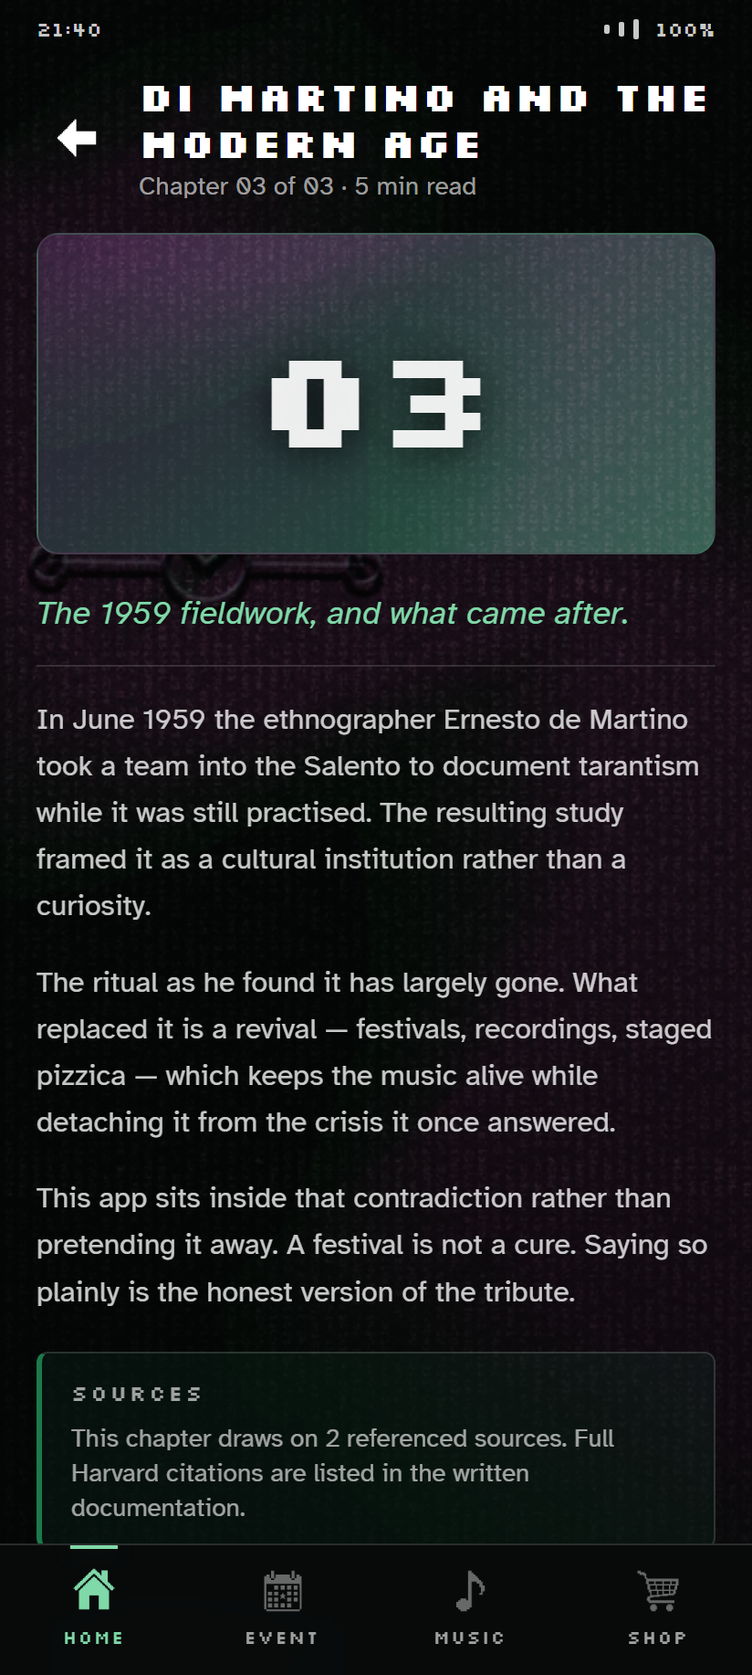
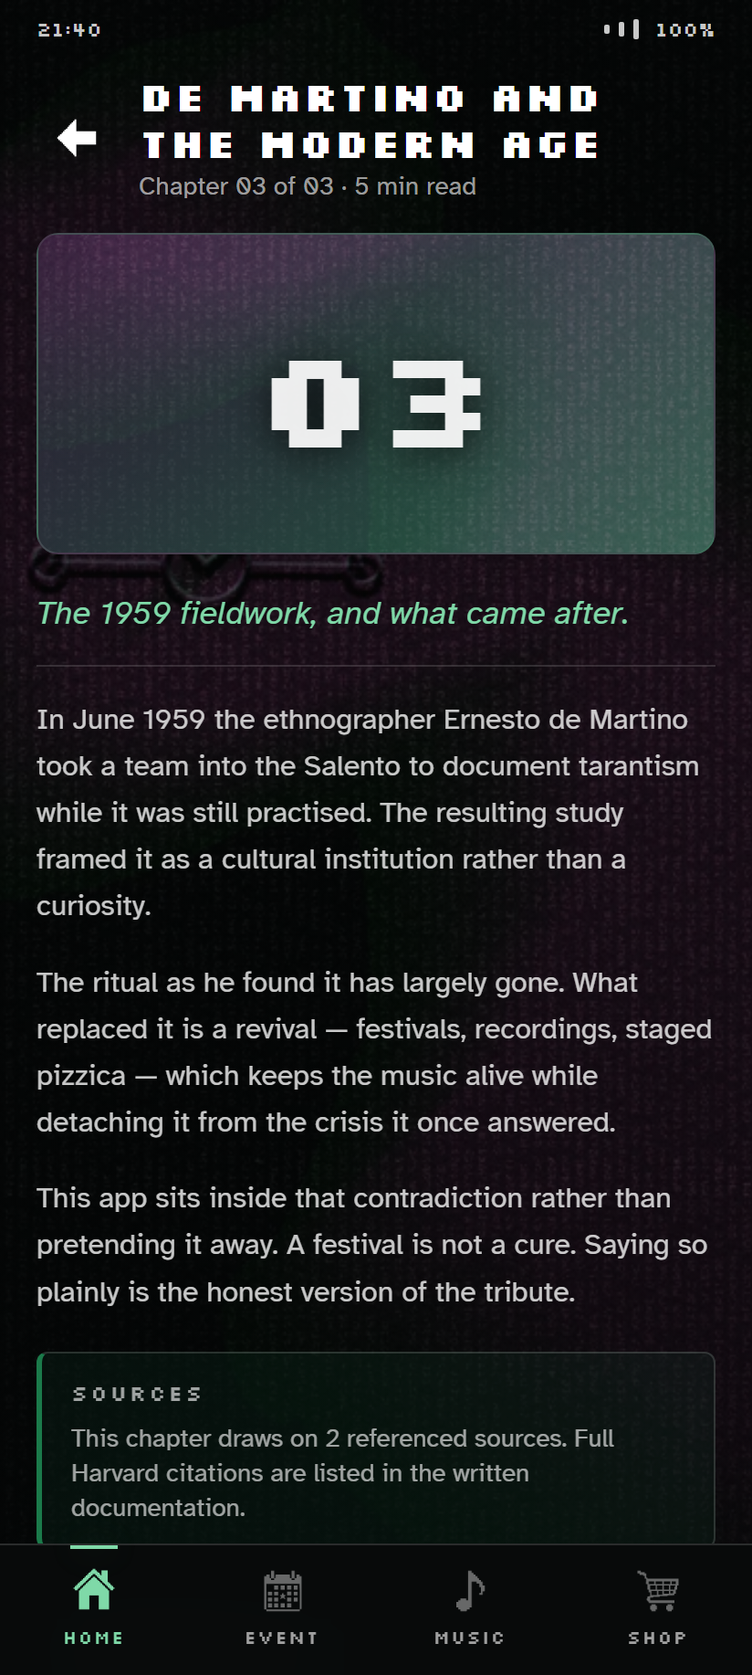
Audit every story-chapter claim; fix the De Martino misspelling
Adds Docs/08-Story-Claims-Audit.md: all 14 assertions across the three
story screens, each classified as verified, standard-but-unread, or
interpretive, with the source that has to carry it and the eleven
specific things to read for. Written to be read before the books.

Chapter 3 was titled "Di Martino and the Modern Age". The ethnographer
is Ernesto de Martino. The wireframe had it wrong and it had spread to
the app, the README, the screen spec and capture.py. Display title
corrected; the dimartino route id stays so links and fixtures hold.

Bibliographic details now verified for de Martino (Zinn translation,
Crapanzano foreword, Il Saggiatore 1961 original), Luedtke (Berghahn,
Epistemologies of Healing vol. 4) and Dodds (Sather Classical Lectures
vol. 25, chapter 3 is the relevant one). Burkert still unverified.

Flags the "Menades" title as a decision to make: neither the English
maenads nor the Italian menadi.

Click-through passes. Screens regenerated.

Changed region(s): [[0.182, 0.0311, 0.6371, 0.0932], [0.6371, 0.0311, 0.7888, 0.0932], [0.8192, 0.0311, 0.9405, 0.0932]]

diff --git a/app/js/data.js b/app/js/data.js
@@ -76,7 +76,9 @@ const Data = {
     {
       id: 'dimartino',
       n: '03',
-      title: 'Di Martino and the Modern Age',
+      /* "De Martino", not "Di Martino" — the wireframe had it wrong. The route id
+         stays `dimartino` so links and test fixtures keep working. */
+      title: 'De Martino and the Modern Age',
       standfirst: 'The 1959 fieldwork, and what came after.',
       readTime: '5 min',
       cite: ['demartino-2005', 'ludtke-2009'],

diff --git a/tools/capture.py b/tools/capture.py
@@ -32,7 +32,7 @@ SCREENS = [
     ("02-about",           "about",              "About the Festival"),
     ("03-story-dionysian", "story/dionysian",    "The Dionysian Cult"),
     ("04-story-menades",   "story/menades",      "Menades and Tarantate"),
-    ("05-story-dimartino", "story/dimartino",    "Di Martino and the Modern Age"),
+    ("05-story-dimartino", "story/dimartino",    "De Martino and the Modern Age"),
     ("06-event-hub",       "event",              "Event hub"),
     ("07-map",             "map",                "Map — Flemington"),
     ("08-schedule",        "schedule",           "Schedule"),

diff --git a/Docs/08-Story-Claims-Audit.md b/Docs/08-Story-Claims-Audit.md
@@ -1,0 +1,139 @@
+# Story Chapters — Claim-by-Claim Audit
+
+**Prepared 13 August 2026, for the Friday 14 August rewrite.**
+
+The three story screens carry more factual weight than the rest of the app combined. This document takes every assertion in them and says what kind of claim it is, what has to support it, and what you need to look for when you read.
+
+> **Why this exists.** On 13 August a fact-check of four unsourced claims elsewhere in the app found three errors, one of which — Route 57 running low-floor trams — was an *accessibility* claim that was the exact reverse of the truth. It had survived because it was plausible, specific and never checked. The story chapters are the same category of risk at roughly ten times the volume. Read them with that in mind.
+
+**Read this before the books, not after.** It turns three hundred pages of reading into a search for eleven specific things.
+
+---
+
+## How claims are classified
+
+| Mark | Meaning | What you must do |
+|---|---|---|
+| ✔ | **Verified** — checked against a source, and the source is cited | Nothing. Use it. |
+| ⚠ | **Standard but unread** — almost certainly right, but neither of us has read the page it sits on | Find it in the book. Note the page. If you can't find it, cut the sentence. |
+| ◆ | **Interpretive** — your argument, not a fact | No citation needed. But it must be *your* sentence, and it is where the marks are. |
+| ✖ | **Wrong or unsupportable** | Already fixed, or listed below as needing a decision. |
+
+---
+
+## Fixed before you start
+
+| Was | Now | Why |
+|---|---|---|
+| Chapter 3 titled "**Di** Martino and the Modern Age" | "**De** Martino and the Modern Age" | The ethnographer is Ernesto **de Martino**. The wireframe had it wrong and it propagated into the app, the README and the screen spec. Misspelling the name of the person whose book you are citing is the single most visible referencing error available. |
+
+The route id stays `dimartino` so links and test fixtures keep working — only the display title changed.
+
+### One naming decision left to you
+
+Chapter 2 is titled **"Menades and Tarantate"**. *Menades* is neither the English (**maenads**) nor the Italian (**menadi**) — it is the Spanish and Latin plural. The pairing with the Italian *tarantate* suggests you wanted the Italian register, in which case it should be **"Menadi e Tarantate"** or **"Maenads and Tarantate"**.
+
+It is your title and there is a defensible argument for leaving it, but a classicist marking this will notice. **Decide it deliberately rather than by default**, and if you keep it, know why.
+
+---
+
+## Chapter 1 — The Dionysian Cult
+
+Cites: Dodds (1951), Burkert (1985)
+
+| # | The claim | Type | What has to carry it |
+|---|---|---|---|
+| 1.1 | "The rites of Dionysus gave the ancient Mediterranean a licensed space for ecstasy — a controlled loss of control, held inside ritual rather than outside it." | ⚠ | **Dodds, ch. 3 "The Blessings of Madness"** is the chapter you want. This is close to his actual argument, but "licensed space" is a paraphrase — find the passage and either quote it or restate it in your own terms with a page reference. |
+| 1.2 | "Participants danced to exhaustion." | ⚠ | Burkert on Dionysian cult practice. Standard, but check whether the sources describe dancing to exhaustion specifically or ecstatic dance generally — the difference matters if a marker knows the material. |
+| 1.3 | "The state they reached had a name and a place in the social order; it was not treated as an illness but as a visit." | ⚠ ◆ | The first half is Dodds. **"Not an illness but a visit" is your framing** — good framing, and it does real work later in chapter 3, but do not present it as something a source says. |
+| 1.4 | "What matters for this festival is the structure, not the spectacle: a community, a circle, music that does not stop, and a person at the centre who is permitted to come apart." | ◆ | Entirely yours. **This is the best sentence in the three chapters** and it is doing the most important job in them — see the continuity note below. Keep it. |
+
+### The continuity trap — read this twice
+
+The link between ancient Dionysian rite and Apulian tarantism is **debated, not settled**. De Martino himself is careful about it. A chapter that opens on Dionysus and closes on the Salento is *implying* a continuity claim whether or not it states one.
+
+Chapter 1 currently sidesteps this well: claim 1.4 argues that the **structure** recurs, not that the practice descended. That is the defensible position and it is already in your draft. **The risk is that you strengthen it while rewriting** — a phrase like "the same rite" or "which became" would turn a careful argument into an overreach.
+
+Hedging this properly is not caution, it is the "analyse and synthesise complex information" criterion in the rubric. Say the connection is structural and contested, and you demonstrate more than an author who asserts it.
+
+---
+
+## Chapter 2 — Menades and Tarantate
+
+Cites: de Martino (2005), Lüdtke (2009)
+
+| # | The claim | Type | What has to carry it |
+|---|---|---|---|
+| 2.1 | "In the Salento the rite reappears under another name." | ◆ ⚠ | "Reappears" is the continuity claim again, in softer clothing. Consider "recurs" or "a comparable structure appears" — same meaning, no descent implied. |
+| 2.2 | "A woman bitten — really or symbolically — by the *taranta* falls into a state that only music can lift." | ✔ | Well supported and central to de Martino. **The "really or symbolically" is the important part** and you have it right — the bite was often symbolic, which is precisely what makes it a cultural rather than medical phenomenon. |
+| 2.3 | "Musicians are called to the house. They play until the right rhythm is found, and then they keep playing, sometimes for days, while she dances." | ⚠ | All three elements — house, search for the right rhythm, multi-day duration — are documented. Find the passage. The "right rhythm" detail is specific enough that it needs a page. |
+| 2.4 | "The *tarantate* were almost always women, and almost always poor." | ⚠ | Strongly supported across the literature, but **quantify it if de Martino gives figures**. "Almost always" invites the question "how many?", and the study is systematic enough to answer it. A number here is worth a paragraph of assertion. |
+| 2.5 | "Reading the bite as purely medical misses what the ritual actually carried: grief, labour, confinement, and the absence of any other permitted outlet." | ◆ | Yours, and it is the interpretive core of the chapter. It aligns with de Martino's reading of tarantism as a response to cultural and psychological crisis — **say that it aligns, and cite him for the underlying idea**, but the four nouns are your synthesis. |
+
+**The strongest sentence you could add here** is one that names what the ritual gave a poor woman in rural Puglia that nothing else in her life did: a socially sanctioned occasion to be the centre of attention, to be unwell in public, and to have the community organise itself around her. That is the argument that makes chapter 3's position land.
+
+---
+
+## Chapter 3 — De Martino and the Modern Age
+
+Cites: de Martino (2005), Lüdtke (2009)
+
+| # | The claim | Type | What has to carry it |
+|---|---|---|---|
+| 3.1 | "In **June 1959** the ethnographer Ernesto de Martino took a team into the Salento to document tarantism while it was still practised." | ✔ | **Verified.** June 1959, Salentine peninsula. The team was interdisciplinary — a psychiatrist, a psychologist, an ethnomusicologist and a social anthropologist. **Add that detail**: it is concrete, checkable, and it supports your point that the study treated tarantism as a cultural institution rather than a medical curiosity. |
+| 3.2 | "The resulting study framed it as a cultural institution rather than a curiosity." | ✔ | Verified in substance — de Martino interpreted tarantism as a cultural and psychological crisis addressed through a ritual reintegrating the individual into society. **Use that formulation**; it is sharper than "cultural institution" and it is his. |
+| 3.3 | "The ritual as he found it has largely gone." | ⚠ | Lüdtke's territory. She is writing fifty years later on exactly this. Find her account of what remained and when. |
+| 3.4 | "What replaced it is a revival — festivals, recordings, staged pizzica — which keeps the music alive while detaching it from the crisis it once answered." | ⚠ ◆ | Lüdtke calls this **neo-tarantism** — use her term, it is more precise than "revival" and it shows you read her. The second half is your argument. |
+| 3.5 | "This app sits inside that contradiction rather than pretending it away. A festival is not a cure. Saying so plainly is the honest version of the tribute." | ◆ | **Yours, and the most important three sentences in the project.** Do not soften them in editing. See below. |
+
+### On claim 3.5
+
+This is where the *social and cultural demands* criterion is actually won, and it is worth more attention than any other paragraph you will write this week.
+
+The position is sound. What would make it stronger is **specificity about your own project**: a festival brand built on a healing ritual is extraction of a kind, however carefully handled. Naming the ways your app does and does not mitigate that — it leads with three history chapters rather than spider decoration; it invents its lineup rather than trading on real Salentine performers; but it still sells a tote bag with a spider on it — reads as judgement rather than defensiveness.
+
+Lüdtke is directly useful here. Her book is *about* the commercial and celebrity dimension of the pizzica revival, which is exactly the position your fictional festival occupies.
+
+---
+
+## Bibliographic details — verified 13 August 2026
+
+These are now checked against publisher and library records. **Verified details do not mean verified reading** — you still need the books in hand, and the checklist item is that nothing appears in the master list that you have not read.
+
+- **De Martino, E. (2005).** *The Land of Remorse: A Study of Southern Italian Tarantism*. Translated and annotated by D.L. Zinn, foreword by V. Crapanzano. London: Free Association Books. (First published as *La terra del rimorso: Contributo a una storia religiosa del Sud*. Milan: Il Saggiatore, 1961.) ✔
+  - *Translator and foreword confirmed. Zinn's annotations are written for exactly your situation — an English reader meeting de Martino for the first time. Read them.*
+- **Lüdtke, K. (2009).** *Dances with Spiders: Crisis, Celebrity and Celebration in Southern Italy*. New York and Oxford: Berghahn Books. Epistemologies of Healing series, vol. 4. ✔
+  - *Series and volume confirmed. She attended neo-tarantism events and learned to dance the pizzica — the fieldwork basis is worth a sentence if you use her.*
+- **Dodds, E.R. (1951).** *The Greeks and the Irrational*. Berkeley: University of California Press. Sather Classical Lectures, vol. 25. ✔
+  - *Series and volume confirmed. **Chapter 3, "The Blessings of Madness", is the one you need** — you do not have to read all 327 pages.*
+- **Burkert, W. (1985).** *Greek Religion*. Trans. J. Raffan. Cambridge, MA: Harvard University Press. ⚠
+  - *Not independently verified. Check the title page of the copy you use — this one has multiple printings and a UK Blackwell edition.*
+
+---
+
+## What to look for — the short version
+
+If you read nothing else, read for these eleven things:
+
+1. Dodds ch. 3 — the passage behind "licensed space for ecstasy" **(1.1)**
+2. Whether the sources say *danced to exhaustion* or just *ecstatic dance* **(1.2)**
+3. The symbolic-versus-real bite, in de Martino's words **(2.2)**
+4. Musicians at the house; the search for the right rhythm; how many days **(2.3)**
+5. **Numbers** on the gender and class of the *tarantate* **(2.4)**
+6. De Martino on tarantism as crisis and reintegration — his formulation, quotable **(2.5, 3.2)**
+7. The 1959 team's four disciplines, to name them **(3.1)**
+8. Lüdtke on what survived and when it went **(3.3)**
+9. Lüdtke's term **neo-tarantism**, and how she defines it **(3.4)**
+10. Lüdtke on commercialisation and celebrity — the material for 3.5
+11. Anything that **contradicts** a claim above. That is the most valuable thing you can come back with.
+
+---
+
+## Before the chapters are done
+
+- [ ] Every ⚠ has a page reference, or the sentence is gone
+- [ ] Every ◆ is written in your words, not tightened up from this document
+- [ ] The continuity claim is structural and hedged, never asserted as descent
+- [ ] `cite` keys in `app/js/data.js` list only works actually read — **the screen renders the count, so an unread key is a visible false claim**
+- [ ] The "Menades" title decision has been made deliberately
+- [ ] Claim 3.5 is at least as strong as it is now

diff --git a/Docs/06-References.md b/Docs/06-References.md
@@ -33,17 +33,23 @@ From the brief, p.10.
 
 The three story screens carry the most factual claims in the project. This is the section most exposed on referencing, and the prose in those screens is **still scaffold** — it must be rewritten against these sources once read.
 
-**⚠ Core**
+> 📋 **See [08-Story-Claims-Audit.md](08-Story-Claims-Audit.md) before reading any of these.** It takes every assertion in the three chapters and says which source has to carry it — including the eleven specific things to read *for*. It turns three hundred pages into a targeted search.
 
-- De Martino, E. (1961). *La terra del rimorso*. Milan: Il Saggiatore.
-  - English: De Martino, E. (2005). *The Land of Remorse: A Study of Southern Italian Tarantism*. Trans. D.L. Zinn. London: Free Association Books.
-  - *The foundational ethnography and the source behind story chapter 3. The 1959 expedition date used in the app comes from here — verify it, and verify the translator and edition against your copy.*
+**✔ Bibliographic details verified 13 August 2026** *(details only — the books still have to be read)*
 
-- Lüdtke, K. (2009). *Dances with Spiders: Crisis, Celebrity and Celebration in Southern Italy*. New York: Berghahn Books.
-  - *The modern revival and the festival economy — directly relevant to a fictional festival built on the tradition, and to the "a festival is not a cure" argument in chapter 3.*
+- De Martino, E. (2005). *The Land of Remorse: A Study of Southern Italian Tarantism*. Translated and annotated by D.L. Zinn, foreword by V. Crapanzano. London: Free Association Books. (First published as *La terra del rimorso: Contributo a una storia religiosa del Sud*. Milan: Il Saggiatore, 1961.)
+  - *The foundational ethnography and the source behind story chapter 3. **The June 1959 expedition date used in the app is confirmed**, as is the interdisciplinary team — a psychiatrist, a psychologist, an ethnomusicologist and a social anthropologist. Translator, foreword, original title and both publishers verified.*
+
+- Lüdtke, K. (2009). *Dances with Spiders: Crisis, Celebrity and Celebration in Southern Italy*. New York and Oxford: Berghahn Books. Epistemologies of Healing series, vol. 4.
+  - *The modern revival and the festival economy — directly relevant to a fictional festival built on the tradition, and to the "a festival is not a cure" argument in chapter 3. **Her term is "neo-tarantism"** — use it. Series and volume verified.*
+
+- Dodds, E.R. (1951). *The Greeks and the Irrational*. Berkeley: University of California Press. Sather Classical Lectures, vol. 25.
+  - *Moved up from §2 because chapter 1 rests on it. **Chapter 3, "The Blessings of Madness", is the relevant chapter** — you do not need the whole book. Series and volume verified.*
+
+**⚠ Still a lead**
 
 - Rouget, G. (1985). *Music and Trance: A Theory of the Relations between Music and Possession*. Chicago: University of Chicago Press.
-  - *On the relationship between music and trance states generally. Useful for the claim that the music is doing the work, not accompanying it. Originally published in French — check which edition you have.*
+  - *On the relationship between music and trance states generally. Useful for the claim that the music is doing the work, not accompanying it. Originally published in French — check which edition you have. Not verified; drop it if you do not read it.*
 
 **⚠ Still to find**
 
@@ -78,11 +84,10 @@ For story chapter 1.
 
 **⚠ Leads**
 
-- Dodds, E.R. (1951). *The Greeks and the Irrational*. Berkeley: University of California Press.
-  - *The standard reference on ecstatic and irrational elements in Greek religion. Relevant to the "licensed space for ecstasy" framing in chapter 1.*
+- Dodds, E.R. (1951). — **moved to §1**, since chapter 1 rests on it. Details verified there.
 
 - Burkert, W. (1985). *Greek Religion*. Trans. J. Raffan. Cambridge, MA: Harvard University Press.
-  - *General reference on Dionysian cult practice.*
+  - *General reference on Dionysian cult practice. **Not verified** — this title has multiple printings and a UK Blackwell edition, so check the title page of the copy you use.*
 
 - Euripides. *The Bacchae*. `<add your edition, translator and year>`
 
@@ -208,12 +213,12 @@ Alphabetical by author surname. Assemble at W-1 and paste into each PDF. **Delet
 4. Burkert, W. (1985). *Greek Religion*. Trans. J. Raffan. Cambridge, MA: Harvard University Press. ⚠
 5. Changing Places Australia. *Why Changing Places*. Viewed 13 August 2026. https://changingplaces.org.au/why-changing-places/ ✔
 6. Clark, A. and contributors. *Pillow* [Python library]. Viewed `<date>`. https://python-pillow.org/
-7. De Martino, E. (2005). *The Land of Remorse: A Study of Southern Italian Tarantism*. Trans. D.L. Zinn. London: Free Association Books. ⚠
-8. Dodds, E.R. (1951). *The Greeks and the Irrational*. Berkeley: University of California Press. ⚠
+7. De Martino, E. (2005). *The Land of Remorse: A Study of Southern Italian Tarantism*. Trans. and annotated by D.L. Zinn, foreword by V. Crapanzano. London: Free Association Books. (First published as *La terra del rimorso*. Milan: Il Saggiatore, 1961.) ✔ *details — read it*
+8. Dodds, E.R. (1951). *The Greeks and the Irrational*. Berkeley: University of California Press. Sather Classical Lectures, vol. 25. ✔ *details — read ch. 3*
 9. Google. *Puppeteer* [Software]. Viewed `<date>`. https://pptr.dev/
 10. Heuer, L. *Segno* [Python library]. Viewed `<date>`. https://github.com/heuer/segno
 11. Kottke, J. *Silkscreen* [Typeface]. SIL Open Font License 1.1. Viewed `<date>`. https://fonts.google.com/specimen/Silkscreen ⚠
-12. Lüdtke, K. (2009). *Dances with Spiders: Crisis, Celebrity and Celebration in Southern Italy*. New York: Berghahn Books. ⚠
+12. Lüdtke, K. (2009). *Dances with Spiders: Crisis, Celebrity and Celebration in Southern Italy*. New York and Oxford: Berghahn Books. Epistemologies of Healing, vol. 4. ✔ *details — read it*
 13. Perkins, M., Furze, L., Roe, J. & MacVaugh, J. (2025). *Navigating the generative AI era: Introducing the AI assessment scale for ethical GenAI assessment*. Viewed `<date>`. https://leonfurze.com/2023/12/18/the-ai-assessment-scale-version-2/
 14. Rouget, G. (1985). *Music and Trance: A Theory of the Relations between Music and Possession*. Chicago: University of Chicago Press. ⚠
 15. Victoria Racing Club. *Getting to Flemington*. Viewed 13 August 2026. https://www.vrc.com.au/visit-us/plan-your-visit/getting-to-flemington/ ✔

diff --git a/Docs/05-AI-Use-Log.md b/Docs/05-AI-Use-Log.md
@@ -59,6 +59,7 @@ The brief states:
 | 16 | 2026-08-11 | Lorenzo | Claude Opus + `puppeteer-core` | Test Task 4's "no dead ends" claim instead of asserting it | Wrote `tools/clickthrough.mjs` to drive Chrome through every route: render each screen, resolve every link, walk the graph for orphans, open and Escape every overlay, measure every target | **29 issues.** Most seriously, the section background artwork had never loaded on any screen — every screen had been rendering flat black. Also 21 targets below the 44px minimum we had claimed to meet | All fixed; the test now passes clean. The background bug had survived every visual review because the scrim made the screens look intentional. `<add — what does that tell you about reviewing your own work?>` |
 | 17 | 2026-08-11 | Lorenzo | Claude Opus | Produce the Task 2 screen deliverable | Wrote `tools/capture.py` to drive Chrome through all 21 routes and export 412×917 @2x PNGs | [../Assets/Screens/](../Assets/Screens/) plus a contact sheet, regenerated on demand | The deliverable is now a build output rather than 21 manual exports, so it cannot fall out of date with the app. `<add>` |
 | 18 | 2026-08-13 | Lorenzo | Claude Opus + web search | Fact-check the four unsourced claims flagged in [06-References.md](06-References.md) | Asked it to verify against primary sources: the Melbourne Italian-descent statistic, the transport service patterns, Companion Card, and Changing Places | Companion Card and Changing Places confirmed accurate and now cited. **Three errors found on the transport screen** — the app claimed Route 57 runs low-floor trams and stops at a level-access stop (Yarra Trams: *"this route is not currently serviced by low-floor trams"*; the VRC advises mobility-aid users to take the train instead), that event trains run from Flinders Street (the VRC says Southern Cross), and that Route 57 runs on the Night Network (it is not a Night Network route). The Melbourne demographic claim was a **ranking** claim with no citable comparative source | `<add — this is the entry with the most to say. The false claim was an accessibility claim, in the section of the project we were most confident about. Worth writing about how it got there: the detail was plausible, specific, and never checked, and no automated test can catch a claim that is well-formed but untrue. Say what you now think that means for the rest of the content.>` |
+| 19 | 2026-08-13 | Lorenzo | Claude Opus + web search | Make the source reading targeted instead of general | Asked it to extract every factual assertion in the three story chapters, classify each as verified / unread / interpretive, and say which source must carry it | [08-Story-Claims-Audit.md](08-Story-Claims-Audit.md) — 14 claims classified, 11 specific things to read for, and bibliographic details verified for de Martino, Lüdtke and Dodds. Also caught that chapter 3 was titled "**Di** Martino" — the wrong name for the ethnographer it cites, inherited from the wireframe | `<add — you did the reading against this list. Say what you found that contradicted it, what you cut, and whether classifying your own claims as fact-versus-interpretation changed how you wrote them.>` |
 
 ---
 

diff --git a/README.md b/README.md
@@ -38,7 +38,7 @@ The app's narrative spine runs through three content screens tracing that histor
 
 1. **The Dionysian Cult** — ecstatic rite in the ancient Mediterranean
 2. **Menades and Tarantate** — the maenads and their Apulian descendants
-3. **Di Martino and the Modern Age** — Ernesto de Martino's mid-century ethnography and the tradition's revival
+3. **De Martino and the Modern Age** — Ernesto de Martino's mid-century ethnography and the tradition's revival
 
 ---
 
@@ -199,7 +199,8 @@ Retained as the Task 1 deliverable. File `f3PA95klt9cu4tpNdiOkGK` — "Notte Del
 │   ├── 04-Rationale.md           ← Task 5
 │   ├── 05-AI-Use-Log.md          ← AI Scale 5 compliance
 │   ├── 06-References.md          ← Harvard reference list
-│   └── 07-Contrast-Report.md     ← generated; measured WCAG ratios
+│   ├── 07-Contrast-Report.md     ← generated; measured WCAG ratios
+│   └── 08-Story-Claims-Audit.md  ← every story claim, and what must source it
 └── Assets/
     ├── Screens/                  ← generated; the Task 2 deliverable
     ├── Walkthrough/              ← generated; the Task 4 video
